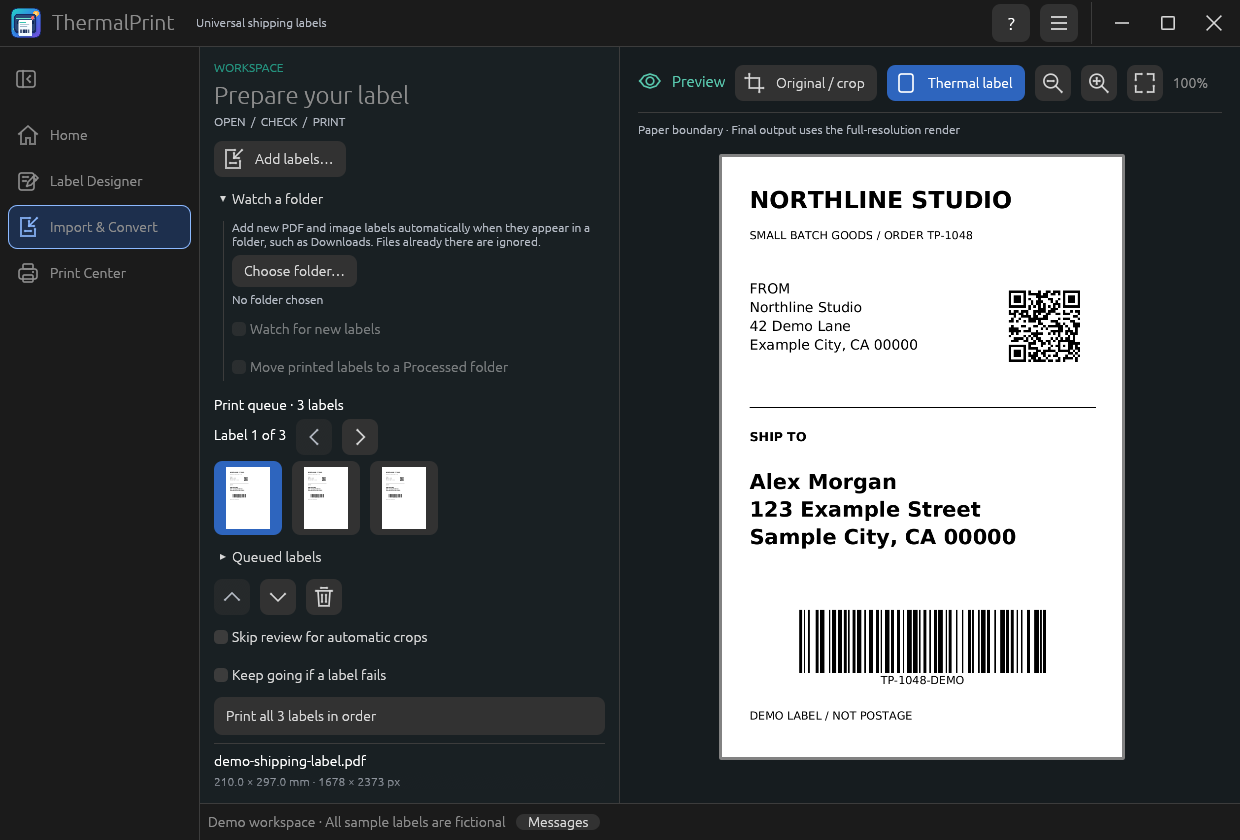
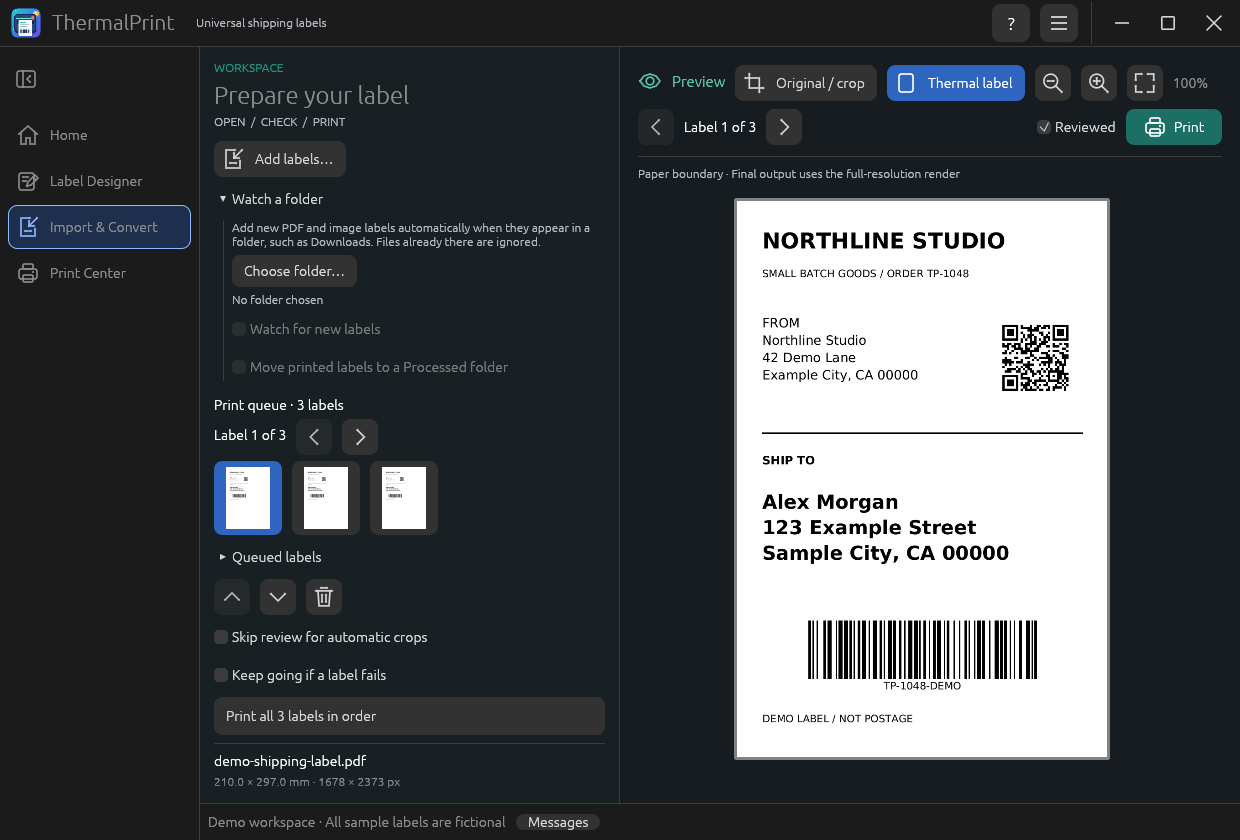
Release 0.7.1: Print, Reviewed and queue navigation above the preview
A second toolbar row has previous/next with a Label X of N counter, a Reviewed
checkbox, and a green Print button with a printer icon. A disabled Print button
says why on hover. The sidebar Print button gets the same icon. The manual,
USAGE guide, screenshots and release notes are updated, and stale statements
about the queue and Print all are corrected.

Changed region(s): [[0.521, 0.1238, 1.0, 0.9286]]

diff --git a/docs/manual/pages/08-automation.html b/docs/manual/pages/08-automation.html
@@ -7,7 +7,7 @@ summary: Let new downloads join the queue automatically, and reopen anything you
 
 <h2 id="watching-a-folder">Watching a folder</h2>
 <p>Marketplaces and carriers save labels as PDFs in your Downloads folder: a Vinted, eBay, Etsy, Poshmark, Depop, or Mercari order label, or one from USPS, UPS, FedEx, or DHL. With a watch folder, ThermalPrint adds each new one to the print queue as soon as it appears, so you can download labels in your browser all morning and print them in one go. Company names are used only as examples of where labels come from; ThermalPrint is not connected to them.</p>
-{{figure:import-watch|Import and Convert with the Watch a folder section open, showing the chosen folder, the Watch for new labels checkbox, the Move printed labels to a Processed folder checkbox, the printer for watched labels, the Add from Processed button, the Watching indicator, and the queue thumbnails|The Watch a folder section and print queue in Import &amp; Convert.}}
+{{figure:import-watch|Import and Convert with the Watch a folder section open, showing the chosen folder, the Watch for new labels checkbox, the Move printed labels to a Processed folder checkbox, the printer for watched labels, the Add from Processed button, the Watching indicator, the queue thumbnails, and the Reviewed checkbox and Print button above the preview|The Watch a folder section and print queue in Import &amp; Convert.}}
 <h3>Turn it on</h3>
 <ol>
   <li>Open <strong>Import &amp; Convert</strong> and expand <strong>Watch a folder</strong>.</li>
@@ -19,7 +19,7 @@ summary: Let new downloads join the queue automatically, and reopen anything you
 <h3>Undo, and printing a label again</h3>
 <p>When labels are moved, the message box offers <strong>Undo</strong> for 12 seconds. Undo moves the files back into the watch folder and adds them to the queue again; it never overwrites a file that has the same name, and it is not offered while the app is busy. To print an older label again at any time, press <strong>Add from Processed…</strong> in the Watch a folder section. It opens the file chooser in the <code>Processed</code> folder; labels you add that way are not moved again. Print Center's recent list follows a file to its new place.</p>
 <h3>A different printer for watched labels</h3>
-<p>If your watched labels always go to one printer, for example your thermal printer for marketplace and carrier labels while ordinary documents go to a laser printer, pick it under <strong>Printer for watched labels</strong>. Whenever a label from the watch folder (or its <code>Processed</code> folder) is shown, the app switches to that printer and its saved media and settings, and says so in a message. Leave it on <strong>Current printer</strong> to never switch. A queue that mixes labels from several places is printed with the printer selected when you press <strong>Print all</strong>.</p>
+<p>If your watched labels always go to one printer, for example your thermal printer for marketplace and carrier labels while ordinary documents go to a laser printer, pick it under <strong>Printer for watched labels</strong>. Whenever a label from the watch folder (or its <code>Processed</code> folder) is shown, the app switches to that printer, using the media and settings you saved for it the last time you used it, and says so in a message. Leave it on <strong>Current printer</strong> to never switch. A queue that mixes labels from several places is printed with the printer selected when you press <strong>Print all</strong>.</p>
 <p>
 
 <h3>What is picked up</h3>
@@ -34,7 +34,7 @@ summary: Let new downloads join the queue automatically, and reopen anything you
   <tr><td>Where you are</td><td>If you are on Home or Import &amp; Convert, the app switches to the queue. If you are in the Designer or Print Center, it stays put and the status bar says how many labels are waiting.</td></tr>
 </table>
 <div class="callout note"><p>The watch folder only <em>adds</em> labels to the queue. It never prints by itself. You still review each label and press Print.</p></div>
-<p>While watching is on, a green <strong>● Watching</strong> line with the folder's name stays visible at the top of the sidebar, even when the <strong>Watch a folder</strong> section is closed. If the folder cannot be read later, for example because a drive was unplugged, watching keeps trying: a red message says what is wrong, and when the folder is readable again a message says so and new files are picked up. If the folder cannot be opened when you choose it or at startup, watching is switched off, the red message stays, and <strong>Turn watching back on</strong> restarts it once the folder is available. The Snap can read your home folder and folders you pick in the file chooser; see <a href="snap.html#folders-and-the-watch-folder">Using the Snap</a>.</p>
+<p>While watching is on, a green dot followed by <strong>Watching</strong> and the folder's name stays visible at the top of the sidebar, even when the <strong>Watch a folder</strong> section is closed. If the folder cannot be read later, for example because a drive was unplugged, watching keeps trying: a red message says what is wrong, and when the folder is readable again a message says so and new files are picked up. If the folder cannot be opened when you choose it or at startup, watching is switched off, the red message stays, and <strong>Turn watching back on</strong> restarts it once the folder is available. The Snap can read your home folder and folders you pick in the file chooser; see <a href="snap.html#folders-and-the-watch-folder">Using the Snap</a>.</p>
 
 <h2>Drag and drop</h2>
 <p>You can always drop files onto the window instead: PDFs and images go to the Import queue, and a single <code>.thermalprint</code> file opens in the Designer.</p>

diff --git a/docs/manual/pages/03-import.html b/docs/manual/pages/03-import.html
@@ -48,7 +48,7 @@ summary: Open PDF and image labels, crop away instructions, check the result, an
 <h3>Full page</h3>
 <p>Prints the whole page. Use it when the file is already a label or when the edges are unclear.</p>
 <h3>Reviewing the crop</h3>
-<p>When a crop leaves something out, ThermalPrint asks you to confirm it before you can print. Check the address, tracking number, carrier marks, and the empty margin (the <em>quiet zone</em>) around each barcode, then tick <strong>I checked the crop and barcode edges</strong>. <strong>Print all</strong> needs every queue entry to be reviewed.</p>
+<p>When a crop leaves something out, ThermalPrint asks you to confirm it before you can print. Check the address, tracking number, carrier marks, and the empty margin (the <em>quiet zone</em>) around each barcode, then tick <strong>I checked the crop and barcode edges</strong> (or <strong>Reviewed</strong> above the preview). <strong>Print all</strong> needs every queue entry to be reviewed.</p>
 
 <h2>Step 02: Paper and layout</h2>
 <table>
@@ -73,7 +73,7 @@ summary: Open PDF and image labels, crop away instructions, check the result, an
   <li>Optionally open <strong>Advanced driver resolution</strong> to pick a resolution your printer offers.</li>
   <li>Set the number of <strong>Copies</strong>.</li>
   <li>Check the line under the readiness message, for example <em>Will print: 1 × 101.6 × 152.4 mm · Printer name · 203 dpi</em>. It shows exactly what will be sent, so a wrong copy count, size, or printer is easy to spot.</li>
-  <li>Press <strong>Print label</strong> (<kbd>Ctrl</kbd>+<kbd>P</kbd>), or <kbd>Ctrl</kbd>+<kbd>Enter</kbd> to print and move on to the next label in the queue.</li>
+  <li>Press <strong>Print label</strong> at the bottom of the sidebar, or the green <strong>Print</strong> button above the preview, or <kbd>Ctrl</kbd>+<kbd>P</kbd>. Use <kbd>Ctrl</kbd>+<kbd>Enter</kbd> to print and move on to the next label in the queue.</li>
 </ol>
 <p>Not sure about the paper or alignment? Load plain paper and print the <strong>alignment test</strong> first; see <a href="print-center.html#alignment-and-printer-profiles">Alignment and printer profiles</a>. The readiness message above the Print button (<em>Ready to submit</em>, or a warning about the media size) appears before anything is sent.</p>
 <p>If the label came from your watch folder and <strong>Move printed labels to a Processed folder</strong> is ticked, a successful print also moves the file into <code>Processed</code> and shows the next label. Labels you added by hand from other folders stay where they are.</p>
@@ -87,6 +87,14 @@ summary: Open PDF and image labels, crop away instructions, check the result, an
   <li><strong>Thermal label</strong> shows the final result at print resolution, exactly as it will be sent.</li>
   <li>The zoom buttons and <strong>Fit</strong> change the preview size.</li>
 </ul>
+<p>Under those buttons, a second row keeps the everyday actions next to the label, so you do not have to scroll the sidebar to find them:</p>
+<table>
+  <tr><th>Control</th><th>What it does</th></tr>
+  <tr><td>Previous / next, with <em>Label 2 of 5</em></td><td>Move through the queue. They appear when there are two or more labels, and match the buttons in the sidebar and <kbd>Alt</kbd>+<kbd>←</kbd> / <kbd>Alt</kbd>+<kbd>→</kbd>.</td></tr>
+  <tr><td><strong>Reviewed</strong></td><td>The same check as <em>I checked the crop and barcode edges</em> in Step 01. Tick it once you have looked at the crop; the Print button stays disabled until you do (unless <strong>Skip review for automatic crops</strong> is on).</td></tr>
+  <tr><td><strong>Print</strong> (green, with a printer icon)</td><td>Prints the current label, exactly like <strong>Print label</strong> in the sidebar and <kbd>Ctrl</kbd>+<kbd>P</kbd>. While it is unavailable, point at it to read why: for example <em>Tick Reviewed once you have checked the crop</em>, <em>Choose a printer</em>, <em>Choose printer media</em>, <em>The label would be clipped</em>, or <em>The preview is still being prepared</em>.</td></tr>
+</table>
+<p>The row appears once a label is open. <strong>Print all</strong> stays in the sidebar, next to the queue, on purpose: printing every label in one click is easy to do by accident, so it is not on the toolbar.</p>
 
 <h2 id="printing-several-labels">Printing several labels</h2>
 <p>Add all the files, review each one, then press <strong>Print all N labels in order</strong>. The labels are submitted one after another in queue order. Unless <strong>Keep going if a label fails</strong> is ticked, the batch <strong>stops at the first problem</strong> (a file that can no longer be read, a layout error, or a printer error) and tells you how many were sent. With that option on, only the failed labels are skipped and stay in the queue. Print all uses the printer that is selected when you press it. Paper size, resolution, rotation, margins, scale, copies, printer, and media are shared by the whole batch.</p>

diff --git a/docs/manual/pages/15-whats-new.html b/docs/manual/pages/15-whats-new.html
@@ -1,14 +1,19 @@
 <!--
 title: What's new
 group: Reference
-summary: The tools added in versions 0.6.0 to 0.7.0, how each one works, and where to read more.
+summary: The tools added in versions 0.6.0 to 0.7.1, how each one works, and where to read more.
 -->
 <p>This page lists what changed recently and links to the full explanation of each tool. Your version is shown in <strong>☰ → About ThermalPrint</strong>.</p>
+
+<h2 id="version-0-7-1">Version 0.7.1</h2>
+<ul>
+  <li><strong>A Print button next to the preview.</strong> A new row above the preview has <strong>previous / next</strong> with a <em>Label 2 of 5</em> counter, a <strong>Reviewed</strong> checkbox, and a green <strong>Print</strong> button with a printer icon, so you no longer scroll to the bottom of the sidebar. When Print is unavailable, point at it to read why. It does the same as <strong>Print label</strong> in the sidebar and <kbd>Ctrl</kbd>+<kbd>P</kbd>. See <a href="import.html#the-preview">The preview</a>.</li>
+</ul>
 
 <h2 id="version-0-7-0">Version 0.7.0</h2>
 <h3>The watch folder</h3>
 <ul>
-  <li><strong>A visible Watching indicator.</strong> A green line with the folder's name stays at the top of the sidebar while watching is on. If the folder cannot be read, a red message says why, watching keeps trying, and <strong>Turn watching back on</strong> restarts it. See <a href="automation.html#watching-a-folder">Watching a folder</a>.</li>
+  <li><strong>A visible Watching indicator.</strong> A green dot, the word Watching, and the folder's name stay at the top of the sidebar while watching is on. If the folder cannot be read, a red message says why, watching keeps trying, and <strong>Turn watching back on</strong> restarts it. See <a href="automation.html#watching-a-folder">Watching a folder</a>.</li>
   <li><strong>Undo for Processed.</strong> After labels are moved, an <strong>Undo</strong> button is offered for 12 seconds, and <strong>Add from Processed…</strong> brings back any older label.</li>
   <li><strong>A printer for watched labels.</strong> Choose one printer for labels from the watch folder; the app switches to it automatically.</li>
 </ul>

diff --git a/src/ui.rs b/src/ui.rs
@@ -878,6 +878,26 @@ impl ThermalPrint {
             self.error = true;
         }
     }
+    /// Why the Print button is unavailable, in words, or `None` when printing can start.
+    fn print_blocker(&self) -> Option<&'static str> {
+        if self.busy {
+            Some("Wait for the current operation to finish")
+        } else if self.page.is_none() {
+            Some("Add a label first")
+        } else if self.dirty || self.output.is_none() {
+            Some("The preview is still being prepared")
+        } else if self.output.as_ref().is_some_and(|o| o.clipped) {
+            Some("The label would be clipped. Adjust the layout")
+        } else if !self.reviewed {
+            Some("Tick Reviewed once you have checked the crop")
+        } else if self.settings.printer.is_empty() {
+            Some("Choose a printer")
+        } else if self.settings.media.is_empty() {
+            Some("Choose printer media")
+        } else {
+            None
+        }
+    }
     fn ready(&self) -> bool {
         !self.busy
             && !self.dirty
@@ -2108,12 +2128,122 @@ impl ThermalPrint {
                     .weak(),
                 );
             }
-            if ui.add_enabled(self.ready()&&!self.settings.printer.is_empty()&&!self.settings.media.is_empty(),egui::Button::new(RichText::new(crate::i18n::tr("Print label   Ctrl+P")).color(Color32::WHITE)).fill(Color32::from_rgb(28,111,100)).min_size(Vec2::new(ui.available_width(),42.))).clicked(){self.print();}
+            let can_print = self.ready() && !self.settings.printer.is_empty() && !self.settings.media.is_empty();
+            if Self::print_button(ui, crate::i18n::tr("Print label   Ctrl+P"), Vec2::new(ui.available_width(), 42.), can_print).clicked() {
+                self.print();
+            }
             ui.horizontal(|ui|{if crate::designer_ui::icon_action(ui, "Export document", "PDF", "Export the prepared label as PDF", self.ready(), false).clicked(){self.export(true);}
                 if crate::designer_ui::icon_action(ui, "Add image / logo...", "PNG", "Export the prepared label as PNG", self.ready(), false).clicked(){self.export(false);}});
             if crate::designer_ui::icon_action(ui, "Status", "Job status", "Check jobs submitted to the selected CUPS printer", !self.settings.printer.is_empty() && !self.busy, false).clicked(){let p=self.settings.printer.clone();self.task("Checking CUPS queue…",move||Ok(Message::Done(printing::job_status(&p)?)));}
             });
         });
+    }
+    /// Moving through the queue, confirming the crop, and printing, next to the preview.
+    /// The main print button: a filled button with the printer icon and a label.
+    fn print_button(ui: &mut egui::Ui, label: &str, size: Vec2, enabled: bool) -> egui::Response {
+        let font = egui::TextStyle::Button.resolve(ui.style());
+        let text_width = ui
+            .painter()
+            .layout_no_wrap(label.into(), font.clone(), Color32::WHITE)
+            .size()
+            .x;
+        let size = Vec2::new(size.x.max(text_width + 62.), size.y);
+        let response = ui.add_enabled(
+            enabled,
+            egui::Button::new("")
+                .min_size(size)
+                .corner_radius(8.)
+                .fill(Color32::from_rgb(28, 111, 100)),
+        );
+        response.widget_info(|| egui::WidgetInfo::labeled(egui::Role::Button, enabled, label));
+        let color = if enabled {
+            Color32::WHITE
+        } else {
+            ui.visuals().weak_text_color()
+        };
+        // The icon, a gap, and the label are centered together.
+        let left = response.rect.center().x - (22. + 8. + text_width) / 2.;
+        let y = response.rect.center().y;
+        crate::designer_ui::paint_tool_icon(
+            ui.painter(),
+            Pos2::new(left + 11., y),
+            color,
+            "Print device",
+        );
+        ui.painter().text(
+            Pos2::new(left + 30., y),
+            egui::Align2::LEFT_CENTER,
+            label,
+            font,
+            color,
+        );
+        response
+    }
+    fn action_bar(&mut self, ui: &mut egui::Ui) {
+        let blocker = self.print_blocker();
+        let (count, busy) = (self.queue.len(), self.busy);
+        let shown = self.loading_selection.or(self.selected);
+        let selected = self.selected;
+        let mut reviewed = self.reviewed;
+        let (mut go_to, mut print) = (None, false);
+        egui::containers::Sides::new().show(
+            ui,
+            |ui| {
+                if count > 1 {
+                    if crate::designer_ui::icon_action(
+                        ui,
+                        "Previous",
+                        "",
+                        "View the previous label (Alt+Left)",
+                        !busy && selected.is_some_and(|i| i > 0),
+                        false,
+                    )
+                    .clicked()
+                    {
+                        go_to = selected.map(|i| i - 1);
+                    }
+                    ui.label(
+                        RichText::new(format!("Label {} of {}", shown.map_or(0, |i| i + 1), count))
+                            .strong(),
+                    );
+                    if crate::designer_ui::icon_action(
+                        ui,
+                        "Next",
+                        "",
+                        "View the next label (Alt+Right)",
+                        !busy && selected.is_some_and(|i| i + 1 < count),
+                        false,
+                    )
+                    .clicked()
+                    {
+                        go_to = selected.map(|i| i + 1);
+                    }
+                }
+            },
+            |ui| {
+                // This side is laid out right to left, so Print comes first.
+                let response = Self::print_button(
+                    ui,
+                    crate::i18n::tr("Print"),
+                    Vec2::new(96., 36.),
+                    blocker.is_none(),
+                );
+                let response = match blocker {
+                    Some(reason) => response.on_disabled_hover_text(crate::i18n::tr(reason)),
+                    None => response.on_hover_text(crate::i18n::tr("Print this label (Ctrl+P)")),
+                };
+                print = response.clicked();
+                ui.checkbox(&mut reviewed, crate::i18n::tr("Reviewed"))
+                    .on_hover_text(crate::i18n::tr("I checked the crop and barcode edges"));
+            },
+        );
+        self.reviewed = reviewed;
+        if let Some(i) = go_to {
+            self.select(i);
+        }
+        if print {
+            self.print();
+        }
     }
     fn preview(&mut self, ui: &mut egui::Ui) {
         ui.horizontal_wrapped(|ui| {
@@ -2173,6 +2303,9 @@ impl ThermalPrint {
             }
             ui.label(format!("{:.0}%", self.zoom * 100.));
         });
+        if self.page.is_some() {
+            self.action_bar(ui);
+        }
         ui.separator();
         if self.page.is_none() {
             ui.vertical_centered(|ui| {

diff --git a/src/i18n.rs b/src/i18n.rs
@@ -82,6 +82,28 @@ pub fn tr(text: &str) -> &str {
 }
 
 const ES: &[(&str, &str)] = &[
+    ("Reviewed", "Revisada"),
+    (
+        "Print this label (Ctrl+P)",
+        "Imprimir esta etiqueta (Ctrl+P)",
+    ),
+    ("Add a label first", "Añade primero una etiqueta"),
+    (
+        "The preview is still being prepared",
+        "La vista previa aún se está preparando",
+    ),
+    (
+        "The label would be clipped. Adjust the layout",
+        "La etiqueta quedaría recortada. Ajusta el diseño",
+    ),
+    (
+        "Tick Reviewed once you have checked the crop",
+        "Marca Revisada cuando hayas comprobado el recorte",
+    ),
+    (
+        "Wait for the current operation to finish",
+        "Espera a que termine la operación actual",
+    ),
     ("Undo", "Deshacer"),
     ("Dismiss", "Descartar"),
     ("Watching", "Vigilando"),
@@ -1060,6 +1082,28 @@ const ES: &[(&str, &str)] = &[
     ),
 ];
 const DE: &[(&str, &str)] = &[
+    ("Reviewed", "Geprüft"),
+    (
+        "Print this label (Ctrl+P)",
+        "Dieses Etikett drucken (Strg+P)",
+    ),
+    ("Add a label first", "Fügen Sie zuerst ein Etikett hinzu"),
+    (
+        "The preview is still being prepared",
+        "Die Vorschau wird noch erstellt",
+    ),
+    (
+        "The label would be clipped. Adjust the layout",
+        "Das Etikett würde abgeschnitten. Passen Sie das Layout an",
+    ),
+    (
+        "Tick Reviewed once you have checked the crop",
+        "Setzen Sie Geprüft, sobald Sie den Zuschnitt kontrolliert haben",
+    ),
+    (
+        "Wait for the current operation to finish",
+        "Warten Sie, bis der aktuelle Vorgang beendet ist",
+    ),
     ("Undo", "Rückgängig"),
     ("Dismiss", "Schließen"),
     ("Watching", "Überwacht:"),
@@ -2008,6 +2052,28 @@ const DE: &[(&str, &str)] = &[
     ),
 ];
 const FR: &[(&str, &str)] = &[
+    ("Reviewed", "Vérifiée"),
+    (
+        "Print this label (Ctrl+P)",
+        "Imprimer cette étiquette (Ctrl+P)",
+    ),
+    ("Add a label first", "Ajoutez d'abord une étiquette"),
+    (
+        "The preview is still being prepared",
+        "L'aperçu est encore en préparation",
+    ),
+    (
+        "The label would be clipped. Adjust the layout",
+        "L'étiquette serait coupée. Ajustez la mise en page",
+    ),
+    (
+        "Tick Reviewed once you have checked the crop",
+        "Cochez Vérifiée une fois le recadrage contrôlé",
+    ),
+    (
+        "Wait for the current operation to finish",
+        "Attendez la fin de l'opération en cours",
+    ),
     ("Undo", "Annuler"),
     ("Dismiss", "Fermer"),
     ("Watching", "Surveillance de"),

diff --git a/docs/USAGE.md b/docs/USAGE.md
@@ -16,7 +16,7 @@ For a correctly sized 4 × 6 source, the automatic proposal may be the whole pag
 
 Choose several files in **Add labels**, or drop several files together. Each PDF page is added as a queue entry. When Automatic mode finds multiple separated regions on one page, **Queue all detected regions** replaces that page's current queue entry with one entry per proposed region.
 
-Select each entry in the queue to inspect and adjust it. Crops, extraction mode, and review state are remembered per queue entry. Use **Move up**, **Move down**, and **Remove** to arrange the print order. **Print all** requires every entry to be reviewed and submits the jobs to CUPS **one after another in queue order**. The batch stops at the first load, layout, or CUPS error and reports how many jobs were submitted. Submission order is not a guarantee of physical print completion; use **Job status** and the printer itself to check progress.
+Select each entry in the queue to inspect and adjust it. Crops, extraction mode, and review state are remembered per queue entry. Use **Move up**, **Move down**, and **Remove** to arrange the print order. **Print all** requires every entry to be reviewed and submits the jobs to CUPS **one after another in queue order**. Unless **Keep going if a label fails** is ticked, the batch stops at the first load, layout, or CUPS error and reports how many jobs were submitted; with that option on, failed labels are skipped, stay in the queue, and are listed in the message. **Skip review for automatic crops** treats labels added afterwards as reviewed, so use it only for layouts you trust. A thumbnail strip, **Alt+Left** / **Alt+Right**, and a second row above the preview (previous/next, **Reviewed**, and a green **Print** button) make it quicker to move through and print the queue; **Ctrl+Enter** prints the current label and shows the next one. Submission order is not a guarantee of physical print completion; use **Job status** and the printer itself to check progress.
 
 Paper size, DPI, rotation, margins, scaling, enhancement, printer, media, resolution, and copies are shared settings for the batch. The app re-renders each queued page at print resolution when submitting it. A label that would clip is blocked rather than silently cut off.
 
@@ -106,8 +106,8 @@ Other current limits:
 - A PDF page is rasterized at 300 DPI. Details already missing from the source cannot be recovered.
 - The preview cannot predict physical printer calibration, heat, driver margins, or carrier scanner behavior.
 - Printer capabilities depend on what the CUPS queue advertises; the app does not install or repair drivers.
-- The queue is held in memory for the current session. Recent paths and preferences persist, but the queue itself is not restored after closing the app.
-- There is no imported-barcode decoder, marketplace integration, or automatic download feature yet. Designer ZPL is raster based and requires a compatible raw queue.
+- The queue is saved as you work. After the app closes, the next start offers to **Restore** or **Discard** it; restored labels keep their crops but must be reviewed again, and files that were moved or deleted are left out.
+- There is no imported-barcode decoder, marketplace integration, or automatic download feature yet (the watch folder picks up files you download yourself). Designer ZPL is raster based and requires a compatible raw queue.
 
 
 ## Saved label files

diff --git a/docs/SNAP.md b/docs/SNAP.md
@@ -16,7 +16,7 @@ From a checkout of this repository, run:
 
 ```sh
 sh scripts/build-snap.sh
-python3 scripts/verify-snap.py target/snap/thermalprint_0.7.0_amd64.snap
+python3 scripts/verify-snap.py target/snap/thermalprint_0.7.1_amd64.snap
 ```
 
 Use the version from `Cargo.toml` in the filename. The build adopts that version
@@ -39,7 +39,7 @@ Python packaging checks require PyYAML (`python3-yaml` on Ubuntu).
 ## Install a local build
 
 ```sh
-sudo snap install --dangerous target/snap/thermalprint_0.7.0_amd64.snap
+sudo snap install --dangerous target/snap/thermalprint_0.7.1_amd64.snap
 snap connections thermalprint
 snap run thermalprint
 ```
@@ -158,8 +158,8 @@ Tagged releases publish automatically. One-time setup:
    optionally add a required reviewer there if you want an approval gate.
 
 To release: bump `version` in `Cargo.toml` (and `Cargo.lock`), merge to `main`,
-then push a tag that exactly matches it, for example `git tag v0.7.0 && git push
-origin v0.7.0`. The workflow checks the tag, runs the packaging tests, builds and
+then push a tag that exactly matches it, for example `git tag v0.7.1 && git push
+origin v0.7.1`. The workflow checks the tag, runs the packaging tests, builds and
 inspects the Snap, then releases it to **stable**. The same `v*` tag also
 triggers the APT release ([release-apt.yml](../.github/workflows/release-apt.yml))
 and the Fedora RPM release ([release-rpm.yml](../.github/workflows/release-rpm.yml)),

diff --git a/docs/RELEASING.md b/docs/RELEASING.md
@@ -9,7 +9,7 @@ The package name and executable are both `thermalprint`. The APT repository live
 To install a downloaded `.deb` directly, use APT so package dependencies are installed:
 
 ```sh
-sudo apt install ./thermalprint_0.7.0-1_amd64.deb
+sudo apt install ./thermalprint_0.7.1-1_amd64.deb
 ```
 
 Replace the filename with the version you downloaded. The application appears as **ThermalPrint** in the desktop launcher, using the bundled color icon. You can also run `thermalprint` from a terminal.
